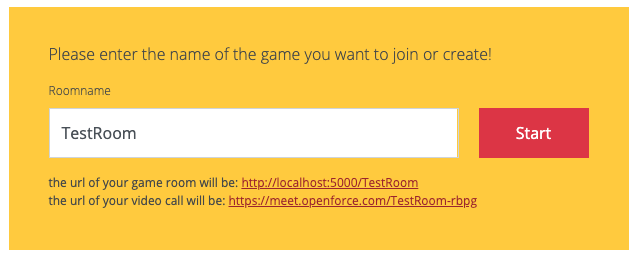
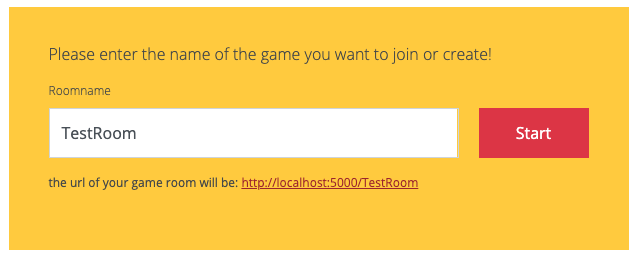
removed jitsi meeting

Changed region(s): [[0.0596, 0.7385, 0.7445, 0.8]]

diff --git a/WebContent/game.html b/WebContent/game.html
@@ -42,7 +42,6 @@
 	<div class="row footer-box">
 		<div class="col-md-12 justify-content-center">
 			<div id="roomUrl"></div>
-			<div id="jitsiUrl"></div>
 			<div id="startPage"></div>
 		</div>
 	</div>
@@ -75,11 +74,6 @@
 			document.getElementById("roomUrl").innerHTML = 'room url: <a href=' + url + '>' + url + '</a>';
 		}
 
-		function displayJitsiUrl() {
-			var jitsiUrl = 'https://meet.openforce.com' + window.location.pathname + '-rbpg';
-			document.getElementById("jitsiUrl").innerHTML = 'video call url: <a target="_blank" href=' + jitsiUrl + '>' + jitsiUrl + '</a>';
-		}
-
 		function displayStartPage() {
 			var backUrl = window.location.protocol + '//' + window.location.hostname + ':' + window.location.port;
 			var backToStart = '<a href="' + backUrl + '">back to start page</a>';
@@ -88,7 +82,6 @@
 
 		displayStartPage();
 		displayRoomUrl();
-		displayJitsiUrl();
 
 	</script>
 

diff --git a/WebContent/landingpage.html b/WebContent/landingpage.html
@@ -40,7 +40,6 @@
 						</div>
 						<span class="label-font-size urltext">
 							the url of your game room will be: <span id="roomUrl"></span> </br>
-							the url of your video call will be: <span id="jitsiUrl"></span>
 						</span>
 					</div>
 				</div>
@@ -148,9 +147,6 @@
 		function displayRoomUrl() {
 			var url = getRoomUrl();
 			document.getElementById("roomUrl").innerHTML = '<a href=' + url + '>' + url + '</a>';
-
-			var jitsiUrl = 'https://meet.openforce.com/' + getRoomId() + '-rbpg';
-			document.getElementById("jitsiUrl").innerHTML = '<a target="_blank" href=' + jitsiUrl + '>' + jitsiUrl + '</a>';
 		}
 
 		function displayTrainerInstructionsUrl() {

diff --git a/WebContent/trainerinstructions.html b/WebContent/trainerinstructions.html
@@ -66,9 +66,7 @@
 					want to try both control modes then also a mouse. Furthermore it's recommended to use a chrome
 					browser. <br /> <br />
 
-					You also should prepare a video call and send it out in your invitation. If you don't have access to
-					a video call system you can use the room that is created from the Remote Ball Point Game, but then
-					you should point it out in you invitation.
+					You also should prepare a video call and send it out in your invitation.
 				</div>
 			</div>
 
